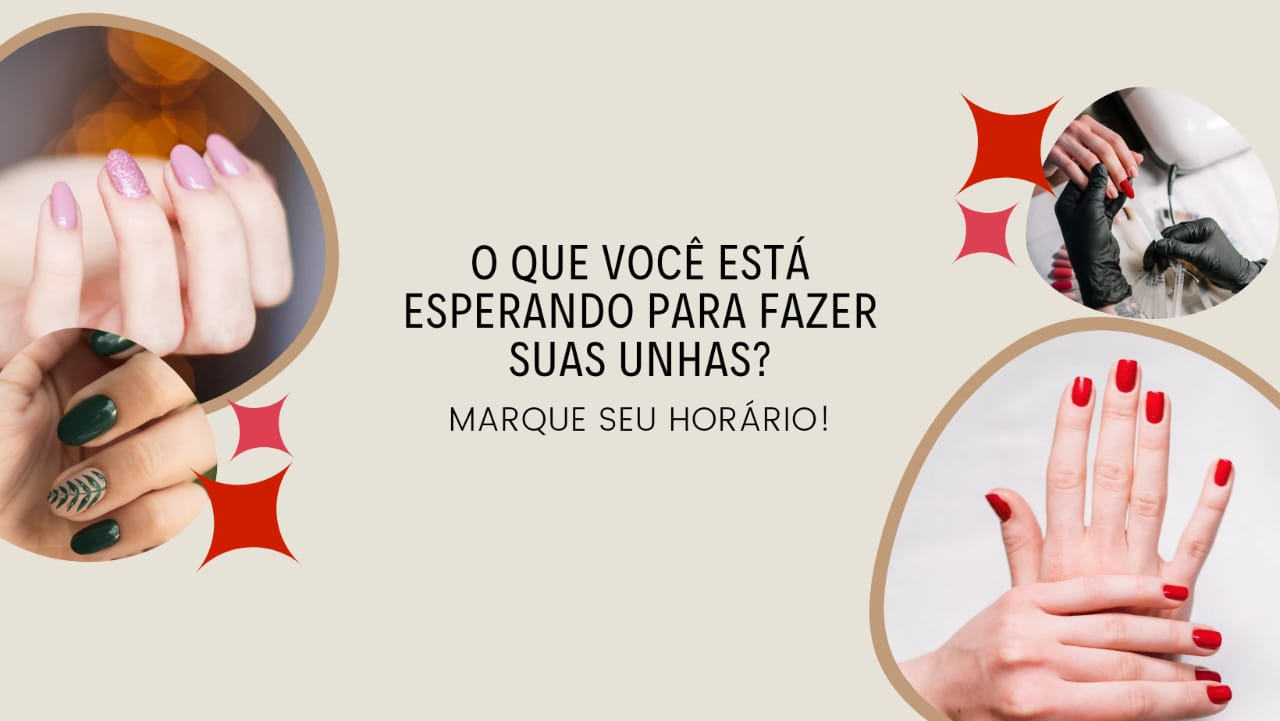
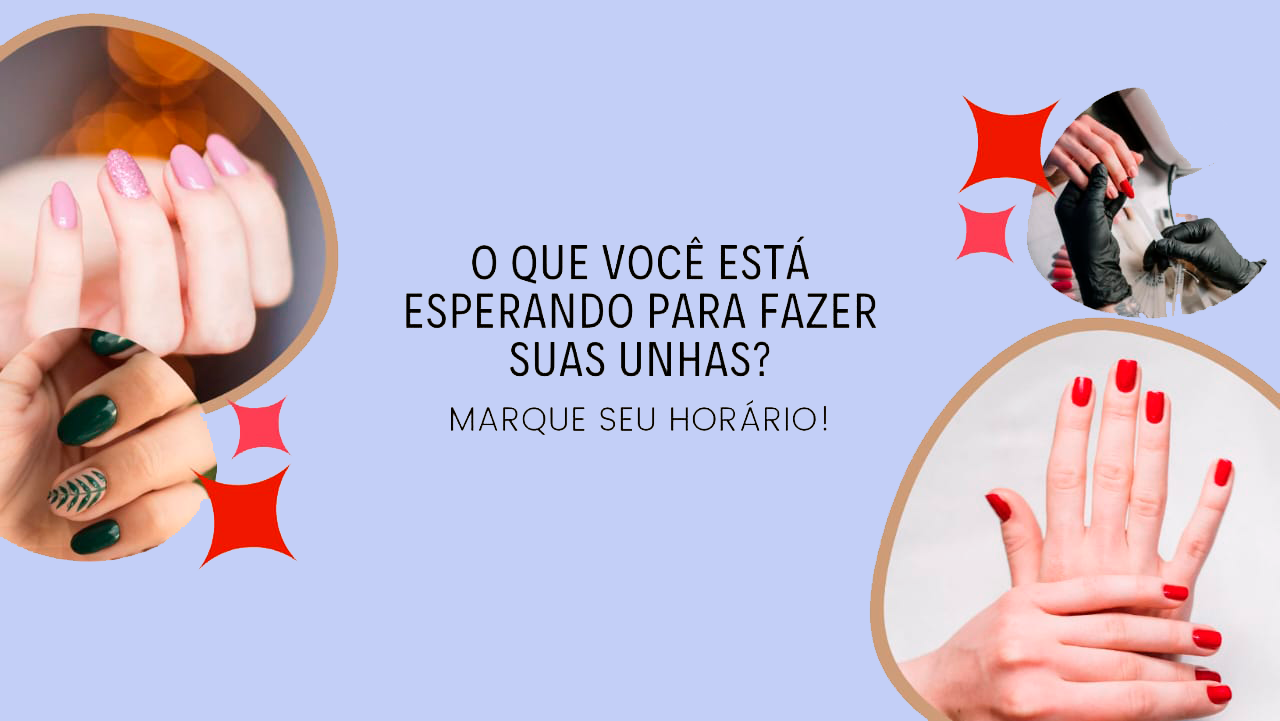
atualizado responsividade

diff --git a/src/css/estilos.css b/src/css/estilos.css
@@ -1,8 +1,9 @@
 .header {
-    background-color: #e7e6e6;
+    background-color: var(--corpadrao);
     display: flex;
     flex-direction: column;
     border-bottom: 3px solid #232323;
+    margin-bottom: 30px;
 }
 
 .header .logo {
@@ -34,13 +35,18 @@
 .carrossel {
     position: relative;
     width: 100%;
+    max-width: 1440px;
+    height: 600px;
     margin: auto;
+    padding: 0px 4%;
     border-bottom: 3px solid #232323;
 }
 
 .carrossel img {
     width: 100%;
-    transition: 0.5s ease-in-out;
+    height: 550px;
+    box-shadow: 0px 0px 10px black;
+    border-radius: 10px;
 }
 
 .servicos {
@@ -59,7 +65,7 @@
     height: 350px;
     border-radius: 7px;
     box-shadow: 2px 2px 2px #232323;
-    background-color: #e7e6e6;
+    background-color: var(--corpadrao);
 }
 
 .servicos .item .subtitulo {
@@ -83,34 +89,42 @@
 
 
 .contato {
-    background-color: #e7e6e6;
-    height: 300px;
-    text-align: center;
+    background-color: var(--corpadrao);
+    height: 200px;
     border: 2px solid #232323;
+    display: flex;
+    justify-content: center;
+    align-items: center;
 }
 
 .contato ul {
     display: flex;
     justify-content: space-around;
     align-items: center;
-    height: 300px;
 }
 
-.contato ul .item {
+.contato ul {
     font-size: 5rem;
     transition: .3s;
 }
 
-.contato li:hover .item.fa-whatsapp {
+.contato ul li {
+    padding: 10px 40px;
+}
+
+.contato li:hover .fa-whatsapp {
     color: green;
+    text-shadow: 1px 1px 15px rgb(5, 238, 5);
 }
 
-.contato li:hover .item.fa-instagram {
-    color: rgb(209, 45, 72);
+.contato li:hover .fa-instagram {
+    color: red;
+    text-shadow: 1px 1px 15px rgb(238, 5, 5);
 }
 
-.contato li:hover .item.fa-facebook {
+.contato li:hover .fa-facebook {
     color: blue;
+    text-shadow: 1px 1px 15px rgb(68, 58, 207);
 }
 
 .footer {
@@ -142,14 +156,17 @@
 
 .footer li:hover .fa-whatsapp {
     color: green;
+    text-shadow: 1px 1px 15px rgb(5, 238, 5);
 }
 
 .footer li:hover .fa-instagram {
     color: rgb(209, 45, 72);
+    text-shadow: 1px 1px 15px rgb(238, 5, 5);
 }
 
 .footer li:hover .fa-facebook {
     color: blue;
+    text-shadow: 1px 1px 15px rgb(68, 58, 207);
 }
 
 .criador {

diff --git a/index.html b/index.html
@@ -41,8 +41,7 @@
     <section class="carrossel">
         <img src="./src/img/corte.png" alt="Massoterapia">
         <img src="./src/img/unha.png" alt="Corte de cabelo">
-        <img src="./src/img/aurico.jpg" alt="Auriculoterapia">
-        <img src="./src/img/corte.png" alt="Cabelereira">
+        <img src="./src/img/aurico.png" alt="Auriculoterapia">
     </section>
 
     <section id="servicos" class="servicos">
@@ -92,7 +91,7 @@
 
     <section class="contato">
         <ul>
-            <li><i class="item fa-brands fa-whatsapp"></i></li>
+            <li><a href="https://web.whatsapp.com/send?phone=5511963587896" target="_blank"><i class="fa-brands fa-whatsapp"></i></a></li>
             <li><i class="item fa-brands fa-instagram"></i></li>
             <li><i class="item fa-brands fa-facebook"></i></li>
         </ul>
@@ -104,9 +103,9 @@
 
             <nav>
                 <ul>
-                    <li><i class="fa-brands fa-whatsapp"></i></li>
-                    <li><i class="fa-brands fa-instagram"></i></li>
-                    <li><i class="fa-brands fa-facebook"></i></li>
+                    <li><a href="https://web.whatsapp.com/send?phone=5511963587896" target="_blank"><i class="fa-brands fa-whatsapp"></i></a></li>
+                    <li><a href="#"><i class="fa-brands fa-instagram"></i></a></li>
+                    <li><a href="#"><i class="fa-brands fa-facebook"></i></a></li>
                 </ul>
             </nav>
         </div>

diff --git a/src/css/responsive.css b/src/css/responsive.css
@@ -1,7 +1,12 @@
 @media(max-width:480px) {
     .header {
         flex-direction: column;
-        height: 100%;
+        width: 100%;
+    }
+
+    .header .logo h1 {
+        font-size: 2rem;
+        text-align: center;
     }
 
     .logo {
@@ -17,6 +22,21 @@
 
     .header .menu {
         flex-direction: column;
+    }
+
+    .carrossel {
+        display: flex;
+        align-items: center;
+        justify-content: center;
+        width: 100%;
+        height: 200px;
+        padding: 10px;
+        border: 0;
+    }
+
+    .carrossel img {
+        width: 350px;
+        height: auto;
     }
 
     .menu li.item {
@@ -37,5 +57,13 @@
         font-weight: 800;
         padding: 5px;
     }
-        
+
+    .contato ul {
+        display: flex;
+        flex-direction: column;
+    }
+    
+    .contato ul li {
+        font-size: 2rem;
+    }
 }

diff --git a/src/css/reset.css b/src/css/reset.css
@@ -23,3 +23,9 @@ a {
     color: #000;
 }
 
+:root {
+    --corpadrao:#c5cef5;
+}
+
+
+
